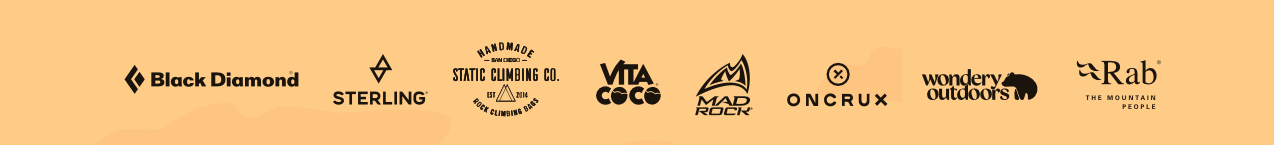
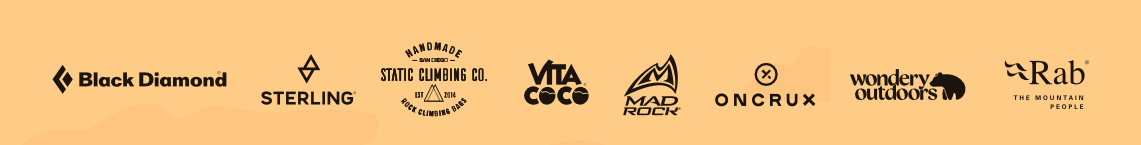
Tweeked components header/footer

diff --git a/client/src/pages/HomePage.js b/client/src/pages/HomePage.js
@@ -1,7 +1,12 @@
 // import SideBar from "../components/Sidebar";
 // import Header from "../components/Header";
+import MainFooter from "../components/Footer";
+import MainHeader from "../components/Header";
 
 import { useNavigate } from "react-router-dom";
+
+import Container from 'react-bootstrap/Container';
+import Navbar from 'react-bootstrap/Navbar';
 
 
 const HomePage = () => {
@@ -51,32 +56,27 @@ const HomePage = () => {
     window.scrollTo(0, 0);
   };
 
-  const HeaderLogoClicked = async (event) => {
-    event.preventDefault();
-    navigate("/");
-    window.scrollTo(0, 0);
-  };
+
 
 
   return (
 
-    <div className="homePage">
+    <div className="homePage w-100">
 
-      {/* <Header /> */}
+      <MainHeader />
 
       <div className="d-flex flex-row">
 
         {/* <SideBar/> */}
 
-        <div className="w-100">
+        <div className="">
 
           
-          <img src={require("../img/BoulderLeague24.png")}
+          {/* <img src={require("../img/BoulderLeague24.png")}
             className="headerLogo"
             // style={{paddingLeft: "63px", paddingRight: "63px"}}
             onClick={() => HeaderLogoClicked(event)}
-            alt="Bouldering League Banner" />
-
+            alt="Bouldering League Banner" /> */}
           {/* <h1 className="text-center mt-5 mx-5 welcomeText">Home Page!</h1> */}
 
           <div className="text-center homeMenu row mt-3 d-flex align-items-center justify-content-center">
@@ -108,16 +108,28 @@ const HomePage = () => {
             alt="SenderOne Logo" />
           </div> */}
 
-          <div className="text-center d-flex">
-          {/* <img src={require("../img/SenderOneLogo.png")} */}
+          {/* <div className="text-center d-flex">
+          <img src={require("../img/SenderOneLogo.png")}
           <img src={require("../img/Sponsors_2.png")}
             className="footerLogo align-items-center justify-content-center"
-            // style={{paddingLeft: "63px", paddingRight: "63px"}}
+            style={{paddingLeft: "63px", paddingRight: "63px"}}
             onClick={() => senderOneHomePage(event)}
             alt="SenderOne Logo" />
-          </div>
+          </div> */}
 
-
+          {/* <div className="mb-0 mt-2 footerContainer">
+            <Navbar className="d-flex FooterClass" fixed="bottom" expand="lg">
+              <Container className="p-0 justify-content-center footerContainer">
+                <div className="text-center d-flex">
+                  <img src={require("../img/Sponsors_2.png")}
+                    className="footerLogo align-items-center justify-content-center"
+                    onClick={() => senderOneHomePage(event)}
+                    alt="SenderOne Logo" />
+                </div>
+              </Container>
+            </Navbar>
+          </div> */}
+          <MainFooter />
         </div>
 
       </div>

diff --git a/client/src/pages/SubmitScorecard.js b/client/src/pages/SubmitScorecard.js
@@ -1,5 +1,6 @@
-// import SideBar from "../components/Sidebar";
-// import Header from "../components/Header";
+
+import MainFooter from "../components/Footer";
+import MainHeader from "../components/Header";
 
 import Button from 'react-bootstrap/Button';
 
@@ -29,24 +30,27 @@ const SubmitScorecard = () => {
     window.scrollTo(0, 0);
   };
 
+  const scorecardSubmitRequest = async (event) => {
+    console.log('Request to submit scorecard');
+    confirm("Press OK to submit scorecard othewise click cancel");
+  }
+
+  const scorecardClear = async (event) => {
+    console.log('Request to Clear Scorecard');
+    alert("Scorecard Cleared!");
+  }
+
   return (
 
-    <div className="homePage">
+    <div className="homePage w-100">
 
-      {/* <Header /> */}
+      <MainHeader />
 
       <div className="d-flex flex-row">
 
         {/* <SideBar/> */}
 
-        <div className="w-100">
-
-          
-          <img src={require("../img/SNA_BoulderLeague24_WebHead.png")}
-            className="headerLogo"
-            // style={{paddingLeft: "63px", paddingRight: "63px"}}
-            onClick={() => HeaderLogoClicked(event)}
-            alt="Bouldering League Banner" />
+        <div className="">
 
           <h1 className="text-center mt-2 mx-5 welcomeText scorecardTitleText">Week 2</h1>
 
@@ -184,9 +188,9 @@ const SubmitScorecard = () => {
           </table>
           
 
-          <div className='py-5 text-center'>
-            <Button className="mx-4" variant="success">Submit Scorecard</Button>{' '}
-            <Button className="mx-4" variant="warning">Clear Scorecard</Button>{' '}
+          <div className='py-5 mb-5 text-center'>
+            <Button className="mx-4" onClick={() => scorecardSubmitRequest(event)} variant="success">Submit Scorecard</Button>{' '}
+            <Button className="mx-4" onClick={() => scorecardClear(event)} variant="warning">Clear Scorecard</Button>{' '}
           </div>
           {/* <div className="text-center d-flex mb-2 align-items-center justify-content-center">
           <img src={require("../img/SenderOneLogo.png")}
@@ -201,6 +205,7 @@ const SubmitScorecard = () => {
 
       </div>
 
+      <MainFooter />
 
     </div>
 

diff --git a/client/src/pages/EventUpdates.js b/client/src/pages/EventUpdates.js
@@ -1,5 +1,5 @@
-// import SideBar from "../components/Sidebar";
-// import Header from "../components/Header";
+import MainFooter from "../components/Footer";
+import MainHeader from "../components/Header";
 
 // import { useNavigate } from "react-router-dom";
 
@@ -9,38 +9,22 @@ const EventUpdates = () => {
 
   return (
 
-    <div className="homePage">
+    <div className="homePage w-100">
 
-      {/* <Header /> */}
+      <MainHeader />
 
       <div className="d-flex flex-row">
 
-        {/* <SideBar/> */}
-
         <div className="w-100">
-
-          
-          <img src={require("../img/SNA_BoulderLeague24_WebHead.png")}
-            className="headerLogo"
-            // style={{paddingLeft: "63px", paddingRight: "63px"}}
-            onClick={() => HeaderLogoClicked(event)}
-            alt="Bouldering League Banner" />
+         
 
           <h1 className="text-center mt-5 mx-5 welcomeText">Event/News Page!</h1>
           
-          <div className="text-center d-flex mb-2 align-items-center justify-content-center">
-          <img src={require("../img/SenderOneLogo.png")}
-            className="footerLogo align-items-center justify-content-center"
-            // style={{paddingLeft: "63px", paddingRight: "63px"}}
-            onClick={() => senderOneHomePage(event)}
-            alt="SenderOne Logo" />
-          </div>
-
-
+          
         </div>
-
       </div>
 
+      <MainFooter />
 
     </div>
 

diff --git a/client/src/components/Footer/index.js b/client/src/components/Footer/index.js
@@ -1,0 +1,43 @@
+import Container from 'react-bootstrap/Container';
+import Navbar from 'react-bootstrap/Navbar';
+import Nav from 'react-bootstrap/Nav';
+
+// import { MaterialSymbol } from 'react-material-symbols';
+import { useNavigate } from "react-router-dom";
+
+
+const MainFooter = () => {
+
+
+  const navigate = useNavigate();
+
+  const footerClicked = async (event) => {
+    event.preventDefault();
+    // window.location.href = 'https://www.senderoneclimbing.com/sna/';
+    navigate("/");
+    window.scrollTo(0, 0);
+  };
+
+
+  return (
+
+    <div className="mb-0 mt-2 footerContainer">
+      <Navbar className="d-flex FooterClass" fixed="bottom" expand="lg">
+        <Container className="p-0 justify-content-center footerContainer">
+          <div className="text-center d-flex">
+            <img src={require("../../img/Sponsors_2.png")}
+              className="footerLogo align-items-center justify-content-center"
+              onClick={() => footerClicked(event)}
+              alt="SenderOne Logo" />
+          </div>
+        </Container>
+      </Navbar>
+    </div>
+
+  );
+};
+
+export default MainFooter;
+
+
+//!========================= EOF =========================

diff --git a/client/src/pages/TeamRankings.js b/client/src/pages/TeamRankings.js
@@ -1,5 +1,5 @@
-// import SideBar from "../components/Sidebar";
-// import Header from "../components/Header";
+import MainFooter from "../components/Footer";
+import MainHeader from "../components/Header";
 
 // import { useNavigate } from "react-router-dom";
 
@@ -9,22 +9,15 @@ const TeamRankings = () => {
 
   return (
 
-    <div className="homePage">
+    <div className="homePage w-100">
 
-      {/* <Header /> */}
+      <MainHeader />
 
       <div className="d-flex flex-row">
 
         {/* <SideBar/> */}
 
         <div className="w-100">
-
-          
-          <img src={require("../img/SNA_BoulderLeague24_WebHead.png")}
-            className="headerLogo"
-            // style={{paddingLeft: "63px", paddingRight: "63px"}}
-            onClick={() => HeaderLogoClicked(event)}
-            alt="Bouldering League Banner" />
 
           {/* <h1 className="text-center mt-5 mx-5 welcomeText">Team Rankings Page!</h1> */}
           <div className="tableDiv mt-3 px-3">
@@ -155,6 +148,7 @@ const TeamRankings = () => {
 
       </div>
 
+    <MainFooter />
 
     </div>
 

diff --git a/client/src/components/Header/index.js b/client/src/components/Header/index.js
@@ -1,0 +1,32 @@
+
+import { useNavigate } from "react-router-dom";
+
+
+const MainHeader = () => {
+
+
+  const navigate = useNavigate();
+
+  const HeaderLogoClicked = async (event) => {
+    event.preventDefault();
+    navigate("/");
+    window.scrollTo(0, 0);
+  };
+
+
+  return (
+
+    <div className="">
+
+    <img src={require("../../img/BoulderLeague24.png")}
+      className="headerLogo"
+      // style={{paddingLeft: "63px", paddingRight: "63px"}}
+      onClick={() => HeaderLogoClicked(event)}
+      alt="Bouldering League Banner" />
+
+    </div>
+
+  );
+};
+
+export default MainHeader;

diff --git a/client/src/css/style.css b/client/src/css/style.css
@@ -78,14 +78,18 @@ html {
 
   width: 100%;
   /* max-height: 75px; */
-  position: fixed;
+  /* position: fixed; */
   /* bottom: 65px; */
-  margin-bottom: 250px;
+  /* margin-bottom: 250px; */
+  position:absolute;
+  left:0;
+  bottom:0;
+  right:0;
 }
 
 .homeBTNs {
   font-family: "Catamaran-ExtraBold";
-  height: 90px;
+  height: 80px;
   font-weight: 900;
   font-size: 25px;
   background-color: #FFCE8C;
